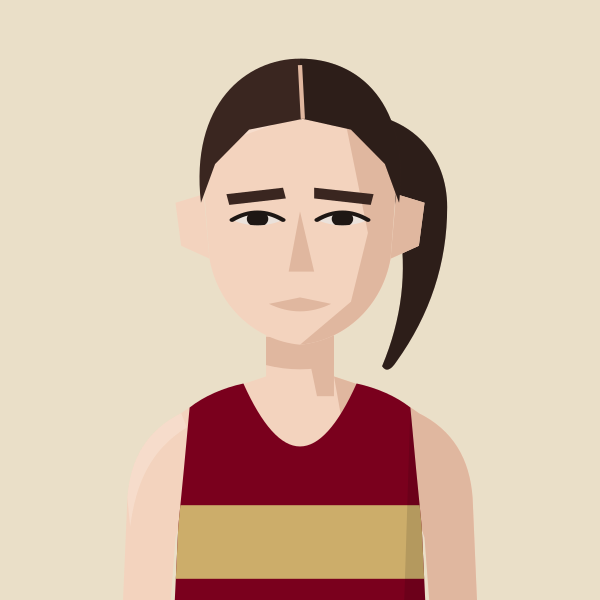
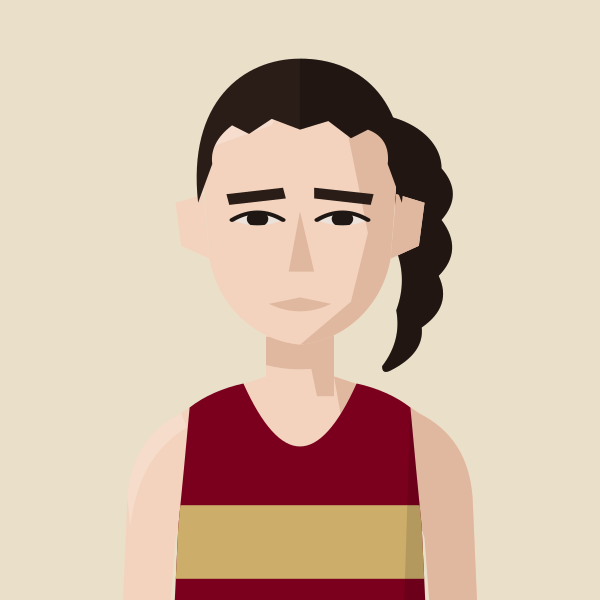
Add Lea Adamson and Max Heyden; Kristina Popadich gets a long wavy ponytail
Claude-Session: https://claude.ai/code/session_01MgmDWhFqnSSnP4iBLKXUZC

diff --git a/files/index.html b/files/index.html
@@ -574,11 +574,11 @@ const LoadingVests=()=>{
 const PORTRAIT_CLUBS=new Set(['BEL','KEN','THH','HHH','H/W','SLH','G&G','RAN','C/C','DUL','HOL','WAL','CRO','WOK','E&E','FUL','SOC','BOX','BOH','AFD','SUR','MIT','REI','DMV','STR','W4H','W/W','K&P','S&D','SEL','DWN','FOT','LCR','ADV','262','MPA','BAC','OME','VAC','HER']);
 // Superstar portraits: every spelling of the athlete's name used in the data -> file in portraits/athletes/
 const PORTRAITS=(()=>{const m={};const add=(file,club,...names)=>names.forEach(n=>m[n.toLowerCase()]={file,club});
-add('kitty-shepherd-cross','BEL','Kitty Shepherd-Cross','Kitty Shepherd Cross');add('jack-kavanagh','HOL','Jack Kavanagh');add('sam-bramwell','HHH','Sam Bramwell');add('suzie-harvey','G&G','Suzie Harvey');add('freddie-hessian','H/W','Freddie Hessian');add('jamie-crowe','H/W','Jamie Crowe');add('sam-gebreselassie','BEL','Samuel Gebreselassie','Sam Gebreselassie');add('jack-brotchie','HHH','Jack Brotchie');add('jack-millar','THH','Jack Millar');add('lucy-jones','HHH','Lucy Jones');add('alex-milne','H/W','Alex Milne');add('josh-trigwell','BEL','Josh Trigwell');add('mack-downie','BEL','Mack Downey','Mack Downie');add('george-ogden','SLH','George Ogden');add('stuart-mccallum','H/W','Stuart McCallum');add('andrew-penney','H/W','Andrew Penney');add('jeremy-dempsey','THH','Jeremy Dempsey');add('henry-hart','BEL','Henry Hart');add('john-sanderson','G&G','John Sanderson');add('andy-fyfe','BEL','Andrew Fyfe','Andy Fyfe');add('saron-haileselase','BEL','Saron Haileselase');add('paskar-owor','BEL','Paskar Owor');add('ruby-carter','H/W','Ruby Carter');add('tom-foster','G&G','Tom Foster');add('mark-tennyson','G&G','Mark Tennyson');add('richard-ollington','THH','Richard Ollington');add('james-preston','BEL','James Preston');add('daniel-wolff','BEL','Daniel Wolff');add('jonny-scott','BEL','Jonathan Scott','Jonny Scott');add('josh-mitchell','BEL','Josh Mitchell');add('dylan-evans','BEL','Dylan Evans');add('morgan-roberts','HHH','Morgan Roberts');add('fred-slemeck','H/W','Fred Slemeck','Frederick Slemeck');add('matthew-edgar','BEL','Matthew Edgar');add('sam-sommerville','BEL','Sam Sommerville');add('richard-mcdowell','H/W','Richard McDowell');add('margaret-coogan','HHH','Margaret Coogan');add('owen-hind','KEN','Owen Hind','Owen Hinds');add('indy-barnes','THH','Indy Barnes');add('conall-mcnally','BEL','Conall McNally');add('rowan-board','HHH','Rowan Board');add('andy-weir','THH','Andy Weir','Andrew Weir');add('neil-chisholm','THH','Neil Chisholm','Neal Chisholm');add('pancho-panchev','H/W','Pancho Panchev');add('adrien-royer','G&G','Adrien Royer');add('rob-kelly','BEL','Robert Kelly','Rob Kelly');add('alex-janiaud','BEL','Alex Janiaud');add('tom-renshaw','THH','Thomas Renshaw','Tom Renshaw');add('jack-ramm','DUL','Jack Ramm');add('findlay-dyer','BEL','Findlay Dyer');add('james-blackwood','DUL','James Blackwood');add('sonny-nicoll','H/W','Sonny Nicoll');add('anisse-ismaili','THH','Anisse Ismaili');add('caleb-hathaway','HHH','Caleb Hathaway');add('barnaby-day','KEN','Barnaby Day');add('simon-coppard','BEL','Simon Coppard');add('ronan-tanguy','HHH','Ronan Tanguy');add('chris-threadgold','BEL','Chris Threadgold');add('mathew-speed','KEN','Mathew Speed','Matthew Speed');add('john-lethbridge','THH','John Lethbridge');add('oliver-fox','THH','Oliver Fox');add('jack-woods','HOL','Jack Woods');add('larry-ryan','BEL','Larry Ryan');add('ethan-mccolgan','THH','Ethan McColgan');add('jonathan-collier','KEN','Jonathan Collier');add('andrew-green','HOL','Andrew Green','Andy Green');add('fintan-pearce','BEL','Fintan Pearce');add('daniel-shaw','HHH','Daniel Shaw');add('sam-tyas','BEL','Sam Tyas');add('tom-austin','HHH','Tom Austin');add('ian-ellwood','KEN','Ian Ellwood');add('rian-mccawley','BEL','Rian McCawley');add('kieran-barnes','HOL','Kieran Barnes');add('ed-mallett','H/W','Ed Mallett','Edward Mallett');add('john-hutchins','WOK','John Hutchins');add('george-gathercole','THH','George Gathercole');add('nick-lightfoot','G&G','Nick Lightfoot');add('eoin-brady','H/W','Eoin Brady');add('james-stockings','H/W','James Stockings');add('jack-hobden','H/W','Jack Hobden');add('hugo-hewitt','HOL','Hugo Hewitt');add('zach-nolan','BEL','Zach Nolan');add('isaac-lutaya','H/W','Isaac Lutaya');add('oliver-young','BEL','Oliver Young');add('ben-racle','KEN','Ben Racle');add('josh-snow','BEL','Josh Snow');add('oliver-reynolds','BEL','Oliver Reynolds');add('aaron-wilson','DUL','Aaron Wilson');add('liam-burthem','HHH','Liam Burthem');add('dan-pettitt','KEN','Dan Pettitt');add('bob-holt','H/W','Bob Holt');add('dave-holt','H/W','Dave Holt');add('mike-fuller','H/W','Mike Fuller');add('gerry-north','BEL','Gerry North');add('steve-gardner','BEL','Steve Gardner');add('alex-yee','KEN','Alex Yee');add('phil-wicks','BEL','Phil Wicks');add('john-gilbert','KEN','John Gilbert','Jonathan Gilbert');add('chris-busaileh','KEN','Chris Busaileh');add('jim-allchin','KEN','Jim Allchin');add('finn-johnson','H/W','Finn Johnson');add('will-cockerell','BEL','William Cockerell','Will Cockerell');add('nick-goolab','BEL','Nick Goolab');add('arne-dumez','BEL','Arne Dumez');add('geoff-jerwood','HHH','Geoff Jerwood','G Jerwood');add('alex-lee','HHH','Alex Lee');add('benedict-whitby','HHH','Benedict Whitby');add('falilou-kebe','BEL','Falilou Kebe');add('jack-dickson','H/W','Jack Dickson');add('phil-swinburn','HOL','Phil Swinburn');add('rob-armstrong','DUL','Rob Armstrong');add('ashley-goncalves','HHH','Ashley Goncalves');add('eddie-jodrell','BEL','Eddie Jodrell');add('thomas-gandee','BEL','Thomas Gandee');add('max-milarvie','DUL','Max Milarvie');add('alex-lennon','BEL','Alex Lennon');add('james-hoad','THH','James Hoad');add('william-gardner','BEL','William Gardner');add('paddy-roddy','THH','Paddy Roddy','PADDY RoDDY');add('simon-waterhouse','BEL','Simon Waterhouse');add('conall-whelan','BEL','Conall Whelan');add('simon-williams','BEL','Simon Williams');add('christian-lee','HOL','Christian Lee');add('sean-cordon','DUL','Sean Cordon','sean cordon');add('michael-mccarthy','BEL','Michael McCarthy','Michael Mccarthy');add('jeff-cunningham','HHH','Jeff Cunningham');add('sam-peters','H/W','Sam Peters');add('ryan-hickey','HHH','Ryan Hickey');add('ben-scott','BEL','Ben Scott');add('tom-gifford','BEL','Tom Gifford');add('valentin-rigori','BEL','Valentin Rigori');add('david-grima','H/W','David Grima');add('deron-fagan','HHH','Deron Fagan');add('lee-lintern','G&G','Lee Lintern');add('ian-acreman','G&G','Ian Acreman');add('alex-howard','THH','Alex Howard');add('james-hancock','BEL','James Hancock');add('nick-morris','BEL','Nick Morris');add('richard-sun','H/W','Richard Sun');add('jonathan-cocker','G&G','Jonathan Cocker');add('isobel-hodder','BEL','Isobel Hodder');add('emma-howsham','G&G','Emma Howsham');add('eilidh-hide','BEL','Eilidh Hide');add('karen-xiang','BEL','Karen Xiang');add('claire-grima','H/W','Claire Grima');add('emma-gordon','BEL','Emma Gordon');add('emily-lowery','BEL','Emily Lowery');add('felicity-harrison','BEL','Felicity Harrison');add('alice-martin','HOL','Alice Martin');add('juliet-hodder','BEL','Juliet Hodder');add('abbie-bulbulian','C/C','Abbie Bulbulian');add('lara-mangan','BEL','Lara Mangan');add('clare-elms','KEN','Clare Elms');add('james-nutt','HHH','James Nutt');add('colin-high','G&G','Colin High');add('gavin-eccles','BEL','Gavin Eccles');add('nicholas-torry','KEN','Nicholas Torry');add('samuel-dames','KEN','Samuel Dames');add('tom-lole','BEL','Tom Lole');add('will-marshall','BEL','Will Marshall');add('stephen-mcleod','HHH','Stephen McLeod');add('rory-orsborn','HHH','Rory Orsborn');add('thomas-dugre','BEL','Thomas Dugre');add('arthur-peel','BEL','Arthur Peel');add('angus-lamb','BEL','Angus Lamb');add('andrew-warburton','HHH','Andrew Warburton');add('robert-laing','KEN','Robert Laing');add('toby-cooke','H/W','Toby Cooke');add('harrison-hayman','SLH','Harrison Hayman');add('edward-chuck','DUL','Edward Chuck');add('robert-sesemann','KEN','Robert Sesemann');add('eoin-molloy','BEL','Eoin Molloy');add('ollie-garrod','BEL','Ollie Garrod');add('matthew-houchell','G&G','Matthew Houchell');add('ben-clarke','KEN','Ben Clarke');add('benjamin-hilson','HOL','Benjamin Hilson');add('molly-oconnor','KEN',"Molly O'Connor");add('iona-cousland','KEN','Iona Cousland');add('anika-schwarze-chintapatla','THH','Anika Schwarze-Chintapatla');add('suzy-whatmough','RAN','Suzy Whatmough');add('kristina-popadich','BEL','Kristina Popadich');add('dillan-quinn','H/W','Dillan Quinn');add('sarah-riceman','BEL','Sarah Riceman');add('holly-pan','BEL','Holly Pan');add('jermaine-mays','SLH','Jermaine Mays');add('gary-staines','BEL','Gary Staines');add('charlie-wyllie','H/W','Charlie Wyllie');add('george-cotton','WOK','George Cotton');add('cameron-reilly','G&G','Cameron Reilly');add('jack-dormer','WOK','Jack Dormer');add('ruby-whyte-wilding','BEL','Ruby Whyte-Wilding');add('sophie-tooley','HHH','Sophie Tooley');add('catherine-kandie','KEN','Catherine Kandie');add('olivia-stillman','HHH','Olivia Stillman');add('alex-gandee','BEL','Alex Gandee');add('billie-mcclosky','BEL','Billie McClosky');add('lisa-bailey','STR','Lisa Bailey');add('amy-clements','KEN','Amy Clements');add('bethanie-murray','THH','Bethanie Murray');add('evie-warren','G&G','Evie Warren');add('lucy-peters','BEL','Lucy Peters');add('emma-lord','H/W','Emma Lord');add('alice-bridger-morales','HHH','Alice Bridger Morales');add('emily-bradley','BEL','Emily Bradley');add('isabelle-pickett','G&G','Isabelle Pickett');add('felicity-hayward','THH','Felicity Hayward');add('gabriel-reynolds','HHH','Gabriel Reynolds');add('lara-bromilow','KEN','Lara Bromilow');add('megan-gildea','HHH','Megan Gildea');add('maeve-kenny','SLH','Maeve Kenny');add('emilie-arnoux','BEL','Emilie Arnoux');add('katie-good','KEN','Katie Good');add('ellie-freeden','KEN','Ellie Freeden');add('alice-smith','SLH','Alice Smith');add('florence-wiggins','THH','Florence Wiggins');add('alexandra-barbour','BEL','Alexandra Barbour');add('ella-king-powrie','BEL','Ella King Powrie');add('betsy-griffiths','RAN','Betsy Griffiths');add('nicola-douglas','STR','Nicola Douglas');add('georgie-furze','WOK','Georgie Furze');add('emma-rowland','BEL','Emma Rowland');add('charlotte-griffiths','BEL','Charlotte Griffiths');add('mary-james','SLH','Mary James');add('penny-oliver','BEL','Penny Oliver');add('ava-mcandie','H/W','Ava McAndie');add('bethan-goddard','BEL','Bethan Goddard');add('nikki-sturzaker','HHH','Nikki Sturzaker');add('hannah-english','HHH','Hannah English');add('clara-pettit','H/W','Clara Pettit');
+add('kitty-shepherd-cross','BEL','Kitty Shepherd-Cross','Kitty Shepherd Cross');add('jack-kavanagh','HOL','Jack Kavanagh');add('sam-bramwell','HHH','Sam Bramwell');add('suzie-harvey','G&G','Suzie Harvey');add('freddie-hessian','H/W','Freddie Hessian');add('jamie-crowe','H/W','Jamie Crowe');add('sam-gebreselassie','BEL','Samuel Gebreselassie','Sam Gebreselassie');add('jack-brotchie','HHH','Jack Brotchie');add('jack-millar','THH','Jack Millar');add('lucy-jones','HHH','Lucy Jones');add('alex-milne','H/W','Alex Milne');add('josh-trigwell','BEL','Josh Trigwell');add('mack-downie','BEL','Mack Downey','Mack Downie');add('george-ogden','SLH','George Ogden');add('stuart-mccallum','H/W','Stuart McCallum');add('andrew-penney','H/W','Andrew Penney');add('jeremy-dempsey','THH','Jeremy Dempsey');add('henry-hart','BEL','Henry Hart');add('john-sanderson','G&G','John Sanderson');add('andy-fyfe','BEL','Andrew Fyfe','Andy Fyfe');add('saron-haileselase','BEL','Saron Haileselase');add('paskar-owor','BEL','Paskar Owor');add('ruby-carter','H/W','Ruby Carter');add('tom-foster','G&G','Tom Foster');add('mark-tennyson','G&G','Mark Tennyson');add('richard-ollington','THH','Richard Ollington');add('james-preston','BEL','James Preston');add('daniel-wolff','BEL','Daniel Wolff');add('jonny-scott','BEL','Jonathan Scott','Jonny Scott');add('josh-mitchell','BEL','Josh Mitchell');add('dylan-evans','BEL','Dylan Evans');add('morgan-roberts','HHH','Morgan Roberts');add('fred-slemeck','H/W','Fred Slemeck','Frederick Slemeck');add('matthew-edgar','BEL','Matthew Edgar');add('sam-sommerville','BEL','Sam Sommerville');add('richard-mcdowell','H/W','Richard McDowell');add('margaret-coogan','HHH','Margaret Coogan');add('owen-hind','KEN','Owen Hind','Owen Hinds');add('indy-barnes','THH','Indy Barnes');add('conall-mcnally','BEL','Conall McNally');add('rowan-board','HHH','Rowan Board');add('andy-weir','THH','Andy Weir','Andrew Weir');add('neil-chisholm','THH','Neil Chisholm','Neal Chisholm');add('pancho-panchev','H/W','Pancho Panchev');add('adrien-royer','G&G','Adrien Royer');add('rob-kelly','BEL','Robert Kelly','Rob Kelly');add('alex-janiaud','BEL','Alex Janiaud');add('tom-renshaw','THH','Thomas Renshaw','Tom Renshaw');add('jack-ramm','DUL','Jack Ramm');add('findlay-dyer','BEL','Findlay Dyer');add('james-blackwood','DUL','James Blackwood');add('sonny-nicoll','H/W','Sonny Nicoll');add('anisse-ismaili','THH','Anisse Ismaili');add('caleb-hathaway','HHH','Caleb Hathaway');add('barnaby-day','KEN','Barnaby Day');add('simon-coppard','BEL','Simon Coppard');add('ronan-tanguy','HHH','Ronan Tanguy');add('chris-threadgold','BEL','Chris Threadgold');add('mathew-speed','KEN','Mathew Speed','Matthew Speed');add('john-lethbridge','THH','John Lethbridge');add('oliver-fox','THH','Oliver Fox');add('jack-woods','HOL','Jack Woods');add('larry-ryan','BEL','Larry Ryan');add('ethan-mccolgan','THH','Ethan McColgan');add('jonathan-collier','KEN','Jonathan Collier');add('andrew-green','HOL','Andrew Green','Andy Green');add('fintan-pearce','BEL','Fintan Pearce');add('daniel-shaw','HHH','Daniel Shaw');add('sam-tyas','BEL','Sam Tyas');add('tom-austin','HHH','Tom Austin');add('ian-ellwood','KEN','Ian Ellwood');add('rian-mccawley','BEL','Rian McCawley');add('kieran-barnes','HOL','Kieran Barnes');add('ed-mallett','H/W','Ed Mallett','Edward Mallett');add('john-hutchins','WOK','John Hutchins');add('george-gathercole','THH','George Gathercole');add('nick-lightfoot','G&G','Nick Lightfoot');add('eoin-brady','H/W','Eoin Brady');add('james-stockings','H/W','James Stockings');add('jack-hobden','H/W','Jack Hobden');add('hugo-hewitt','HOL','Hugo Hewitt');add('zach-nolan','BEL','Zach Nolan');add('isaac-lutaya','H/W','Isaac Lutaya');add('oliver-young','BEL','Oliver Young');add('ben-racle','KEN','Ben Racle');add('josh-snow','BEL','Josh Snow');add('oliver-reynolds','BEL','Oliver Reynolds');add('aaron-wilson','DUL','Aaron Wilson');add('liam-burthem','HHH','Liam Burthem');add('dan-pettitt','KEN','Dan Pettitt');add('bob-holt','H/W','Bob Holt');add('dave-holt','H/W','Dave Holt');add('mike-fuller','H/W','Mike Fuller');add('gerry-north','BEL','Gerry North');add('steve-gardner','BEL','Steve Gardner');add('alex-yee','KEN','Alex Yee');add('phil-wicks','BEL','Phil Wicks');add('john-gilbert','KEN','John Gilbert','Jonathan Gilbert');add('chris-busaileh','KEN','Chris Busaileh');add('jim-allchin','KEN','Jim Allchin');add('finn-johnson','H/W','Finn Johnson');add('will-cockerell','BEL','William Cockerell','Will Cockerell');add('nick-goolab','BEL','Nick Goolab');add('arne-dumez','BEL','Arne Dumez');add('geoff-jerwood','HHH','Geoff Jerwood','G Jerwood');add('alex-lee','HHH','Alex Lee');add('benedict-whitby','HHH','Benedict Whitby');add('falilou-kebe','BEL','Falilou Kebe');add('jack-dickson','H/W','Jack Dickson');add('phil-swinburn','HOL','Phil Swinburn');add('rob-armstrong','DUL','Rob Armstrong');add('ashley-goncalves','HHH','Ashley Goncalves');add('eddie-jodrell','BEL','Eddie Jodrell');add('thomas-gandee','BEL','Thomas Gandee');add('max-milarvie','DUL','Max Milarvie');add('alex-lennon','BEL','Alex Lennon');add('james-hoad','THH','James Hoad');add('william-gardner','BEL','William Gardner');add('paddy-roddy','THH','Paddy Roddy','PADDY RoDDY');add('simon-waterhouse','BEL','Simon Waterhouse');add('conall-whelan','BEL','Conall Whelan');add('simon-williams','BEL','Simon Williams');add('christian-lee','HOL','Christian Lee');add('sean-cordon','DUL','Sean Cordon','sean cordon');add('michael-mccarthy','BEL','Michael McCarthy','Michael Mccarthy');add('jeff-cunningham','HHH','Jeff Cunningham');add('sam-peters','H/W','Sam Peters');add('ryan-hickey','HHH','Ryan Hickey');add('ben-scott','BEL','Ben Scott');add('tom-gifford','BEL','Tom Gifford');add('valentin-rigori','BEL','Valentin Rigori');add('david-grima','H/W','David Grima');add('deron-fagan','HHH','Deron Fagan');add('lee-lintern','G&G','Lee Lintern');add('ian-acreman','G&G','Ian Acreman');add('alex-howard','THH','Alex Howard');add('james-hancock','BEL','James Hancock');add('nick-morris','BEL','Nick Morris');add('richard-sun','H/W','Richard Sun');add('jonathan-cocker','G&G','Jonathan Cocker');add('isobel-hodder','BEL','Isobel Hodder');add('emma-howsham','G&G','Emma Howsham');add('eilidh-hide','BEL','Eilidh Hide');add('karen-xiang','BEL','Karen Xiang');add('claire-grima','H/W','Claire Grima');add('emma-gordon','BEL','Emma Gordon');add('emily-lowery','BEL','Emily Lowery');add('felicity-harrison','BEL','Felicity Harrison');add('alice-martin','HOL','Alice Martin');add('juliet-hodder','BEL','Juliet Hodder');add('abbie-bulbulian','C/C','Abbie Bulbulian');add('lara-mangan','BEL','Lara Mangan');add('clare-elms','KEN','Clare Elms');add('james-nutt','HHH','James Nutt');add('colin-high','G&G','Colin High');add('gavin-eccles','BEL','Gavin Eccles');add('nicholas-torry','KEN','Nicholas Torry');add('samuel-dames','KEN','Samuel Dames');add('tom-lole','BEL','Tom Lole');add('will-marshall','BEL','Will Marshall');add('stephen-mcleod','HHH','Stephen McLeod');add('rory-orsborn','HHH','Rory Orsborn');add('thomas-dugre','BEL','Thomas Dugre');add('arthur-peel','BEL','Arthur Peel');add('angus-lamb','BEL','Angus Lamb');add('andrew-warburton','HHH','Andrew Warburton');add('robert-laing','KEN','Robert Laing');add('toby-cooke','H/W','Toby Cooke');add('harrison-hayman','SLH','Harrison Hayman');add('edward-chuck','DUL','Edward Chuck');add('robert-sesemann','KEN','Robert Sesemann');add('eoin-molloy','BEL','Eoin Molloy');add('ollie-garrod','BEL','Ollie Garrod');add('matthew-houchell','G&G','Matthew Houchell');add('ben-clarke','KEN','Ben Clarke');add('benjamin-hilson','HOL','Benjamin Hilson');add('molly-oconnor','KEN',"Molly O'Connor");add('iona-cousland','KEN','Iona Cousland');add('anika-schwarze-chintapatla','THH','Anika Schwarze-Chintapatla');add('suzy-whatmough','RAN','Suzy Whatmough');add('kristina-popadich','BEL','Kristina Popadich');add('dillan-quinn','H/W','Dillan Quinn');add('sarah-riceman','BEL','Sarah Riceman');add('holly-pan','BEL','Holly Pan');add('jermaine-mays','SLH','Jermaine Mays');add('gary-staines','BEL','Gary Staines');add('charlie-wyllie','H/W','Charlie Wyllie');add('george-cotton','WOK','George Cotton');add('cameron-reilly','G&G','Cameron Reilly');add('jack-dormer','WOK','Jack Dormer');add('lea-adamson','BEL','Lea Adamson');add('max-heyden','BEL','Max Heyden');add('ruby-whyte-wilding','BEL','Ruby Whyte-Wilding');add('sophie-tooley','HHH','Sophie Tooley');add('catherine-kandie','KEN','Catherine Kandie');add('olivia-stillman','HHH','Olivia Stillman');add('alex-gandee','BEL','Alex Gandee');add('billie-mcclosky','BEL','Billie McClosky');add('lisa-bailey','STR','Lisa Bailey');add('amy-clements','KEN','Amy Clements');add('bethanie-murray','THH','Bethanie Murray');add('evie-warren','G&G','Evie Warren');add('lucy-peters','BEL','Lucy Peters');add('emma-lord','H/W','Emma Lord');add('alice-bridger-morales','HHH','Alice Bridger Morales');add('emily-bradley','BEL','Emily Bradley');add('isabelle-pickett','G&G','Isabelle Pickett');add('felicity-hayward','THH','Felicity Hayward');add('gabriel-reynolds','HHH','Gabriel Reynolds');add('lara-bromilow','KEN','Lara Bromilow');add('megan-gildea','HHH','Megan Gildea');add('maeve-kenny','SLH','Maeve Kenny');add('emilie-arnoux','BEL','Emilie Arnoux');add('katie-good','KEN','Katie Good');add('ellie-freeden','KEN','Ellie Freeden');add('alice-smith','SLH','Alice Smith');add('florence-wiggins','THH','Florence Wiggins');add('alexandra-barbour','BEL','Alexandra Barbour');add('ella-king-powrie','BEL','Ella King Powrie');add('betsy-griffiths','RAN','Betsy Griffiths');add('nicola-douglas','STR','Nicola Douglas');add('georgie-furze','WOK','Georgie Furze');add('emma-rowland','BEL','Emma Rowland');add('charlotte-griffiths','BEL','Charlotte Griffiths');add('mary-james','SLH','Mary James');add('penny-oliver','BEL','Penny Oliver');add('ava-mcandie','H/W','Ava McAndie');add('bethan-goddard','BEL','Bethan Goddard');add('nikki-sturzaker','HHH','Nikki Sturzaker');add('hannah-english','HHH','Hannah English');add('clara-pettit','H/W','Clara Pettit');
 return m;})();
 // Athlete header figure: superstar portrait if we have one, else a grey runner in the club vest, else the plain vest icon
 // Changes whenever any portrait changes (set by tools/build_og.py), so browsers fetch fresh images instead of old cached ones
-const PORTRAIT_V='075de617';
+const PORTRAIT_V='f087b004';
 const AthletePortrait=({name,club,w,fill,onClick})=>{const[failed,setFailed]=useState(false);const pk=PORTRAITS[normalizeNameForCompare(name).replace(/\s*\([^)]*\)$/,'')];const file=pk&&pk.club===club?pk.file:null;const src=file?`/portraits/athletes/${file}.svg?v=${PORTRAIT_V}`:PORTRAIT_CLUBS.has(club)?`/portraits/clubs/${club.replace(/\//g,'').replace(/&/g,'and')}.svg?v=${PORTRAIT_V}`:null;if(!src||failed)return<div onClick={onClick} className={onClick?'cursor-pointer':''}><ClubShield club={club} size={w}/></div>;const h=Math.round(w*148/126),ih=Math.round(w*1.4);if(fill)return<div onClick={onClick} className="cursor-pointer" style={{alignSelf:'stretch',minHeight:h,aspectRatio:'126 / 148',flexShrink:0,position:'relative',borderRadius:4,overflow:'hidden'}}><img src={src} alt={file?`Portrait of ${name.replace(/\s*\([^)]*\)$/,'')}`:`Runner in ${CLUBS[club]?.name||club} vest`} style={{position:'absolute',top:0,left:0,display:'block',width:'100%',height:'auto'}} onError={()=>setFailed(true)}/></div>;return<div style={{width:w,height:h,borderRadius:4,overflow:'hidden',flexShrink:0}}><img src={src} alt={file?`Portrait of ${name.replace(/\s*\([^)]*\)$/,'')}`:`Runner in ${CLUBS[club]?.name||club} vest`} width={w} height={ih} style={{display:'block',width:w,height:ih}} onError={()=>setFailed(true)}/></div>;};
 const getClubVestSvg=(club)=>{
   const p="M3 0 L6 0 Q7 4 10 5 Q13 4 14 0 L17 0 L17 20 L3 20 Z";

diff --git a/tools/gen_portraits.py b/tools/gen_portraits.py
@@ -641,7 +641,7 @@ W434 = [
  ("iona-cousland","KEN","Iona Cousland",dict(skin=1,hair="ponytail",hair_colour="#3A2620"),"dark brown hair tied back"),
  ("anika-schwarze-chintapatla","THH","Anika Schwarze-Chintapatla",dict(skin=3,hair="wavytie",hair_colour="#1C1714"),"dark wavy ponytail"),
  ("suzy-whatmough","RAN","Suzy Whatmough",dict(skin=1,hair="ponytail",hair_colour="#6B4A2E"),"brown ponytail"),
- ("kristina-popadich","BEL","Kristina Popadich",dict(skin=1,hair="ponytail",hair_colour="#3A2620"),"dark brown ponytail"),
+ ("kristina-popadich","BEL","Kristina Popadich",dict(skin=1,hair="wavytie",hair_colour="#2A1C17"),"long wavy near-black ponytail"),
  ("dillan-quinn","H/W","Dillan Quinn",dict(skin=2,hair="wavytie",hair_colour="#2A1D18"),"dark flowing ponytail"),
 ]
 W434 += [
@@ -656,3 +656,5 @@ save("charlie-wyllie", figure("H/W", skin=1, hair="spiky", hair_colour="#E6D9AE"
 save("george-cotton", figure("WOK", skin=1, hair="tousled", hair_colour="#6E4E33"))
 save("cameron-reilly", figure("G&G", skin=1, hair="messyfringe", hair_colour="#8A6440"))
 save("jack-dormer", figure("WOK", skin=1, hair="messyvolume", hair_colour="#86603E"))
+save("lea-adamson", figure("BEL", skin=1, hair="wavytie", hair_colour="#5E3A26", necklace="#D4D4D4"))
+save("max-heyden", figure("BEL", skin=1, hair="shortcurls", hair_colour="#5A3E2B"))
